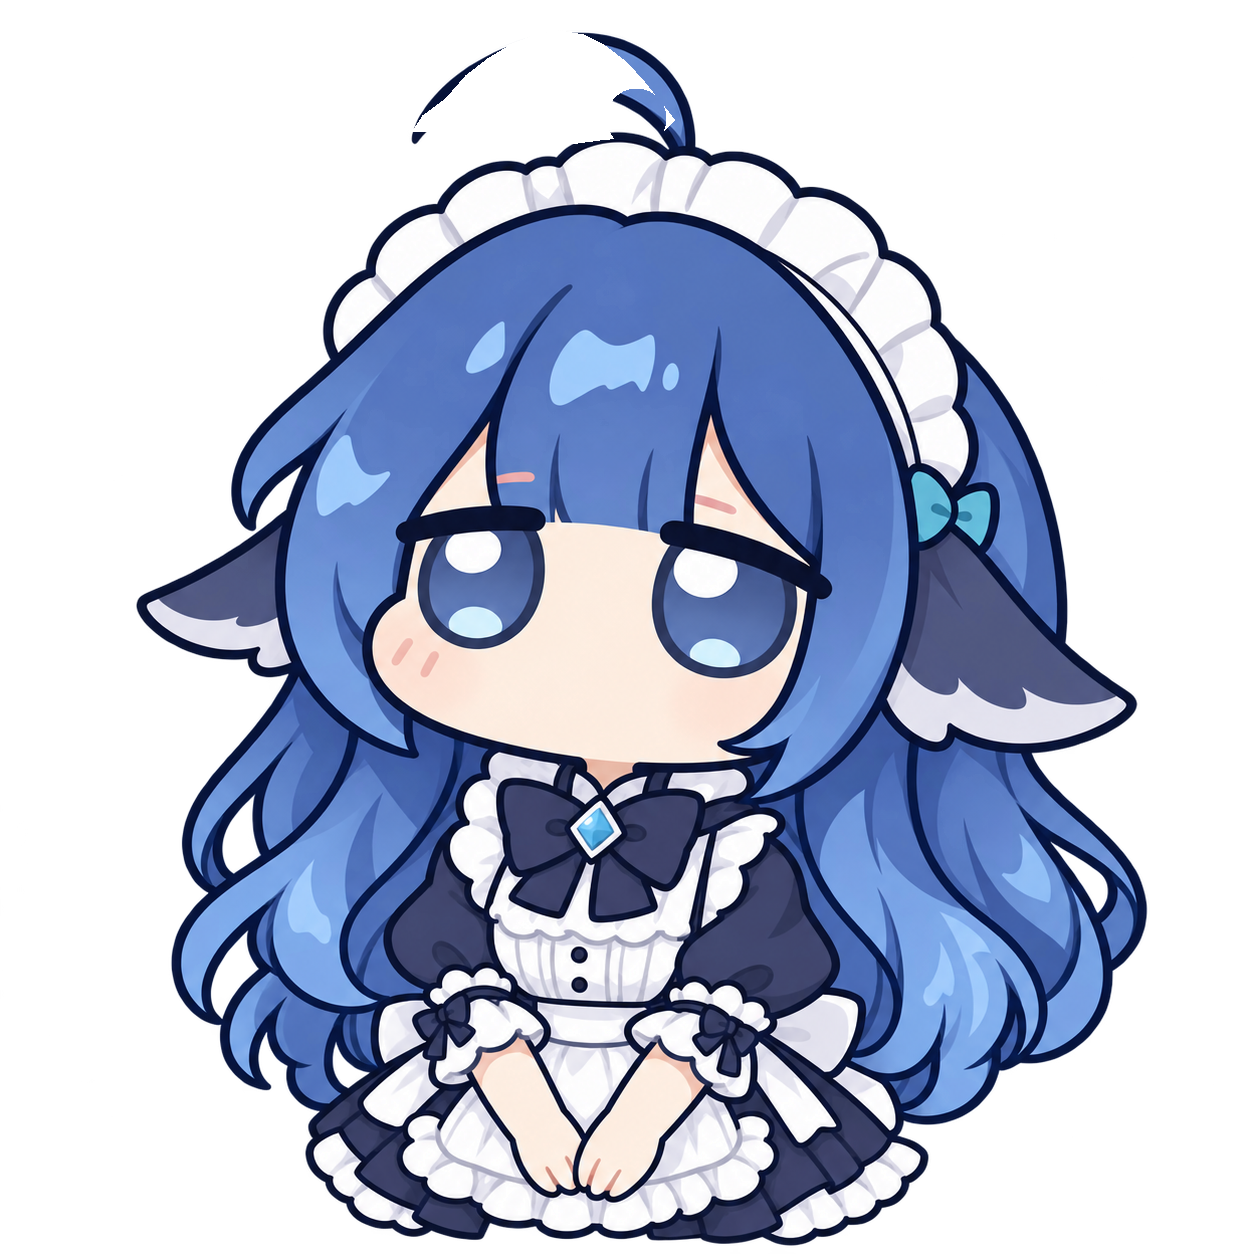
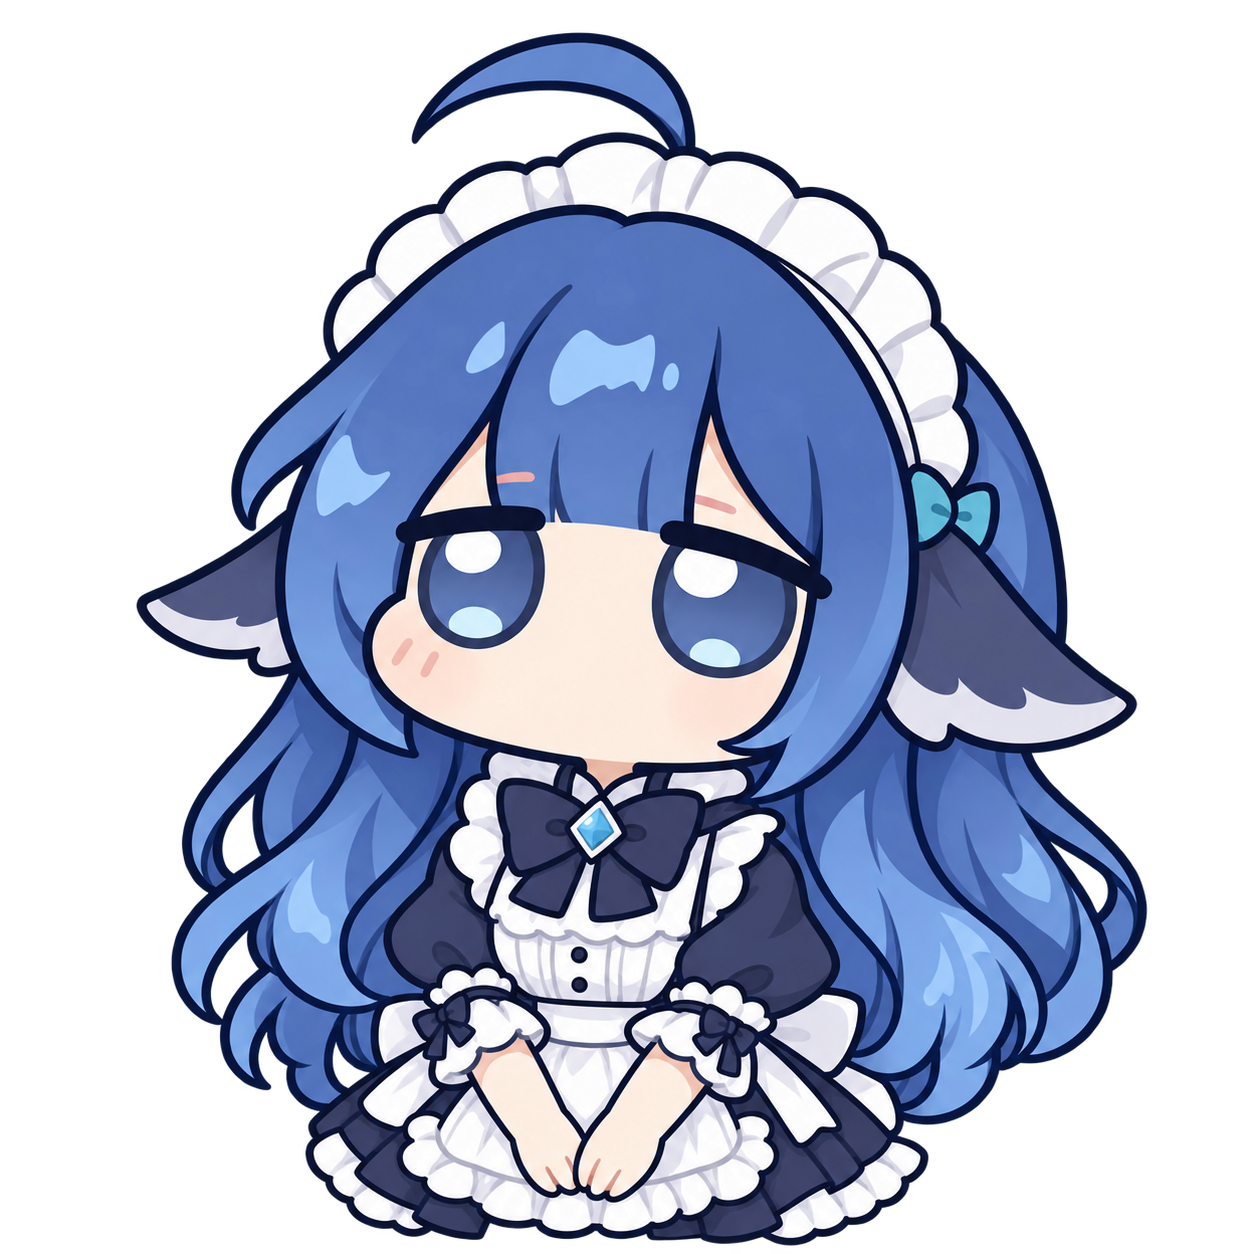
feat: state faces for thinking and success, and a pixel-true ahoge split
The portrait now wears focus the whole time a reply is being produced and
a smile for a beat once it lands (the runtime marks success at delivery;
those two sprites left the idle rotation). The ahoge split switched from a
hand-traced outline to a flood fill over the actual pixels — the outline
was leaving anti-aliased fringe on the body, which swung into view as dark
debris — and the erased root regrows from the crown's boundary colours.

Changed region(s): [[0.3421, 0.0, 0.5287, 0.1244], [0.311, 0.0933, 0.3421, 0.1244]]

diff --git a/src/renderer/avatar.tsx b/src/renderer/avatar.tsx
@@ -8,6 +8,7 @@ import { petBridge, usePetState } from './pet-state';
 import { playClickBounce } from './avatar-motion';
 import { startIdleFidgets } from './avatar-idle';
 import { playPoseSwap, poseSrc, preloadPoses, startPoseClock } from './avatar-poses';
+import { FACE_HOLD_MS, stateFace } from './avatar-face';
 import { playAhogeFlick } from './avatar-ahoge';
 import './avatar.css';
 
@@ -40,14 +41,57 @@ function Avatar() {
   const portraitRef = useRef<HTMLDivElement | null>(null);
   const ahogeRef = useRef<HTMLImageElement | null>(null);
   const [poseId, setPoseId] = useState<string | null>(null);
+  const [faceId, setFaceId] = useState<string | null>(null);
+  const faceIdRef = useRef<string | null>(null);
+  faceIdRef.current = faceId;
+  // A state face outranks the idle rotation; the clock below sits out.
+  const faceActive = useRef(false);
+  const faceHold = useRef<number | null>(null);
 
   useEffect(() => startIdleFidgets(portraitRef.current), []);
   useEffect(() => {
     preloadPoses();
     return startPoseClock((pose) => {
+      if (faceActive.current) return;
       playPoseSwap(portraitRef.current, () => setPoseId(pose ? pose.id : null));
     });
   }, []);
+
+  // State faces: focus while a reply is being produced, a smile for a beat
+  // once it lands. The smile window shields itself from the states that
+  // follow it (a voice broadcast flips avatarState again right after), while
+  // a new turn cancels any lingering smile immediately.
+  const avatarState = snapshot?.avatarState;
+  useEffect(() => {
+    const face = stateFace(avatarState);
+    if (face === 'focus') {
+      if (faceHold.current !== null) {
+        window.clearTimeout(faceHold.current);
+        faceHold.current = null;
+      }
+      if (!faceActive.current || faceIdRef.current !== 'focus') {
+        faceActive.current = true;
+        playPoseSwap(portraitRef.current, () => setFaceId('focus'));
+      }
+      return;
+    }
+    if (face === 'smile') {
+      if (faceHold.current !== null) return;
+      faceActive.current = true;
+      playPoseSwap(portraitRef.current, () => setFaceId('smile'));
+      faceHold.current = window.setTimeout(() => {
+        faceHold.current = null;
+        faceActive.current = false;
+        playPoseSwap(portraitRef.current, () => setFaceId(null));
+      }, FACE_HOLD_MS);
+      return;
+    }
+    if (faceHold.current !== null) return;
+    if (faceActive.current) {
+      faceActive.current = false;
+      playPoseSwap(portraitRef.current, () => setFaceId(null));
+    }
+  }, [avatarState]);
 
   useEffect(() => {
     let active = true;
@@ -207,7 +251,7 @@ function Avatar() {
           }
         }}
       >
-        <WhalePortrait containerRef={portraitRef} ahogeRef={ahogeRef} artworkUrl={poseId ? poseSrc(poseId) : null} />
+        <WhalePortrait containerRef={portraitRef} ahogeRef={ahogeRef} artworkUrl={faceId ? poseSrc(faceId) : poseId ? poseSrc(poseId) : null} />
       </button>
     </main>
   );

diff --git a/src/renderer/avatar-poses.ts b/src/renderer/avatar-poses.ts
@@ -13,14 +13,15 @@ export interface PoseSpec {
   kind: 'pose' | 'expression'
 }
 
+/** The idle rotation pool — deliberately without focus and smile: those two
+ *  are reserved for the state faces (see avatar-face.ts), so an idle flicker
+ *  can never be mistaken for the model working, or for a reply landing. */
 export const POSES: readonly PoseSpec[] = [
   { id: 'wave', kind: 'pose' },
   { id: 'doze', kind: 'pose' },
   { id: 'cheer', kind: 'pose' },
   { id: 'dozy', kind: 'pose' },
-  { id: 'smile', kind: 'expression' },
   { id: 'surprise', kind: 'expression' },
-  { id: 'focus', kind: 'expression' },
   { id: 'sleepy', kind: 'expression' },
   { id: 'shy', kind: 'expression' }
 ]
@@ -87,15 +88,13 @@ export function playPoseSwap(el: Element | null, apply: () => void, reduced = pr
   }
 }
 
-/** Warms the decode cache so a swap never flashes an empty frame. */
+/** Warms the decode cache so a swap never flashes an empty frame — every
+ *  sprite, including the two reserved for state faces. */
 export function preloadPoses(): void {
   if (typeof Image === 'undefined') return
-  for (const pose of POSES) {
-    const src = poseSrc(pose.id)
-    if (src) {
-      const image = new Image()
-      image.src = src
-    }
+  for (const src of Object.values(SOURCES)) {
+    const image = new Image()
+    image.src = src
   }
 }
 

diff --git a/test/avatar-poses.test.ts b/test/avatar-poses.test.ts
@@ -2,12 +2,18 @@ import { describe, expect, it } from 'vitest'
 import { nextPose, playPoseSwap, POSES, poseGapMs, poseHoldMs, poseSrc } from '../src/renderer/avatar-poses'
 
 describe('pose library', () => {
-  it('lists the nine sprites with unique ids and static sources', () => {
+  it('keeps seven sprites in the idle rotation pool, each with a static source', () => {
     const ids = POSES.map((pose) => pose.id)
     expect(new Set(ids).size).toBe(ids.length)
-    expect(POSES.length).toBe(9)
+    expect(POSES.length).toBe(7)
     for (const pose of POSES) expect(poseSrc(pose.id)).toBeTruthy()
     expect(poseSrc('nope')).toBeNull()
+  })
+
+  it('reserves focus and smile for the state faces, out of the random rotation', () => {
+    expect(POSES.some((pose) => pose.id === 'focus' || pose.id === 'smile')).toBe(false)
+    expect(poseSrc('focus')).toBeTruthy()
+    expect(poseSrc('smile')).toBeTruthy()
   })
 })
 

diff --git a/src/renderer/avatar-face.ts b/src/renderer/avatar-face.ts
@@ -1,0 +1,16 @@
+/** State faces: which expression the portrait wears while a reply is being
+ *  produced and just after it lands. The runtime marks a turn's life in
+ *  avatarState — 'thinking' at send, flips with 'acting' around tool calls,
+ *  'success' the moment the reply is delivered — and the portrait maps that
+ *  onto the two reserved expression sprites. focus and smile are kept out of
+ *  the idle rotation pool (avatar-poses.ts) so their meaning stays sharp. */
+
+/** How long the "just finished" smile lingers before the portrait relaxes. */
+export const FACE_HOLD_MS = 4200
+
+/** The face for an avatar state, or null when no face is due. */
+export function stateFace(state: string | undefined): string | null {
+  if (state === 'thinking' || state === 'acting') return 'focus'
+  if (state === 'success') return 'smile'
+  return null
+}

diff --git a/test/avatar-face.test.ts b/test/avatar-face.test.ts
@@ -1,0 +1,23 @@
+import { describe, expect, it } from 'vitest'
+import { FACE_HOLD_MS, stateFace } from '../src/renderer/avatar-face'
+
+describe('stateFace', () => {
+  it('maps a busy turn to focus and a delivered reply to smile', () => {
+    expect(stateFace('thinking')).toBe('focus')
+    expect(stateFace('acting')).toBe('focus')
+    expect(stateFace('success')).toBe('smile')
+  })
+
+  it('leaves every other state faceless', () => {
+    for (const state of ['idle', 'listening', 'speaking', 'error', undefined, '']) {
+      expect(stateFace(state)).toBeNull()
+    }
+  })
+})
+
+describe('FACE_HOLD_MS', () => {
+  it('keeps the finished smile long enough to register, short enough not to linger', () => {
+    expect(FACE_HOLD_MS).toBeGreaterThanOrEqual(3000)
+    expect(FACE_HOLD_MS).toBeLessThanOrEqual(6000)
+  })
+})

diff --git a/src/main/agent-runtime.ts b/src/main/agent-runtime.ts
@@ -483,7 +483,10 @@ export class AgentRuntime {
       this.offerNote(reply.note.title, reply.note.content)
     } else {
       this.state.taskStatus = 'done'
-      this.state.avatarState = 'idle'
+      // 'success', not 'idle': the portrait reads it as "the reply just
+      // landed" and raises a smile for a beat. The next turn's sendMessage
+      // flips it back to 'thinking'.
+      this.state.avatarState = 'success'
       // The CLI's stop hook keeps a goal going; its own counter may arrive later.
       if (this.state.goal) this.state.goal = { ...this.state.goal, iterations: this.state.goal.iterations + 1 }
       this.emit()

diff --git a/CHANGELOG.md b/CHANGELOG.md
@@ -2,6 +2,17 @@
 
 本文件记录每个版本的显著变化。从 v0.0.34 起，每版对应一个 Git tag 与 GitHub Release；更早版本（v0.0.7 ~ v0.0.33）的说明仅存于本文件——它们的代码未进入版本控制，无法重建 tag。
 
+## [0.0.42] - 2026-10-11
+
+### 新增
+- **对话状态表情**：等待答复期间角色换上「专注」（模型思考与工具执行全程），答复落地瞬间换成「微笑」约 4 秒。两个表情已从随机轮换池移出，专供这两个语义时刻——「看到她专注」就意味着我在干活，不会再有歧义；新回合会立刻打断微笑、停止/出错不配表情。
+
+### 修复
+- **甩呆毛的黑色残影**：此前按手描轮廓裁剪，动画旋转时描边的抗锯齿残留像素会被甩出来（黑边与漂浮碎块）——素材看起来粗糙即源于此。改为对真实像素洪泛提取（每一粒抗锯齿边缘都跟随），根部被遮住的帽顶用边界色回填；拍倒帧的呆毛边缘现在零残留（根部 3 倍特写验证）。
+
+### 改动
+- 呆毛切图管线重写（洪泛版），校验脚本新增根部 3 倍放大预览。
+
 ## [0.0.41] - 2026-10-11
 
 ### 改动
